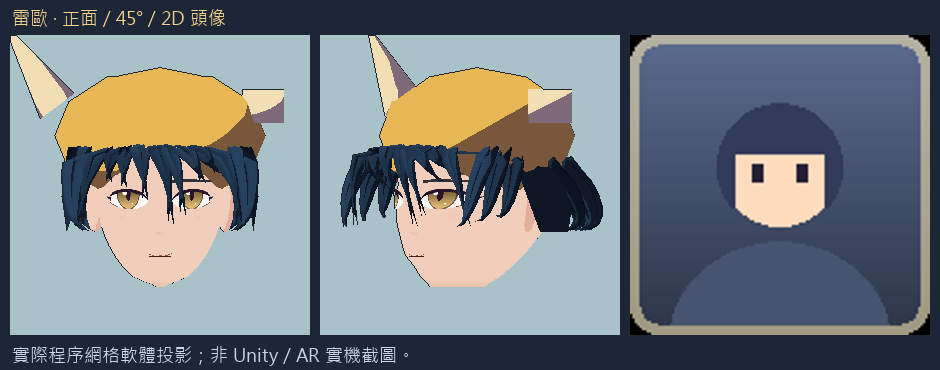
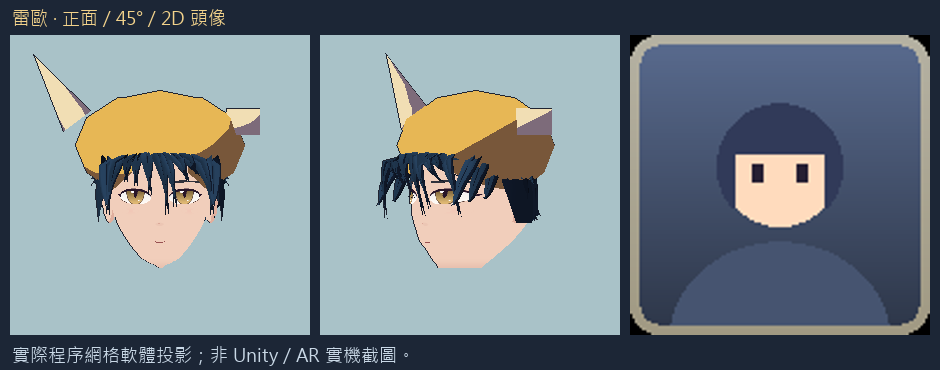
Round Erin hood and folded rim, compact hair depth and shorten Haido mouth
Preserve rear hair tube cross-sections against the cached head envelope. Closed neutral captain portraits use a shorter mouth; casting and teeth remain animated. Includes inherited Leo template regression. No gameplay, public CharacterRig API or network changes.

Changed region(s): [[0.3394, 0.0892, 0.6479, 0.773], [0.0, 0.0892, 0.3085, 0.773]]

diff --git a/spellduel-unity/Assets/SpellDuel/Runtime/StoryHeadwear.cs b/spellduel-unity/Assets/SpellDuel/Runtime/StoryHeadwear.cs
@@ -12,6 +12,41 @@ namespace SpellDuel
                 for(int i=0;i<n;i++){float a=i*Mathf.PI/4;b.V.Add(path[j]+(side*Mathf.Cos(a)+cross*Mathf.Sin(a))*radius*(1-j*.28f));b.C.Add(color);if(j<path.Length-1){int k=start+j*n+i,k1=start+j*n+(i+1)%n;b.T.AddRange(new[]{k,k1,k+n,k1,k1+n,k+n});}}
             }
         }
+        static void HoodRoof(OutfitArt.Builder b,Vector3[] front,Color color)
+        {
+            const int rows=7;int n=front.Length;
+            for(int layer=0;layer<2;layer++)
+            {
+                int start=b.V.Count;
+                for(int j=0;j<rows;j++)for(int i=0;i<n;i++)
+                {
+                    float t=j/(float)(rows-1),smooth=t*t*(3-2*t);var f=front[i];
+                    float rearY=f.y>.10f?.10f+(f.y-.10f)*.45f:f.y-.006f;
+                    var v=new Vector3(Mathf.Lerp(f.x,f.x*.98f,smooth),Mathf.Lerp(f.y,rearY,smooth)+.014f*Mathf.Sin(t*Mathf.PI)*Mathf.Clamp01((f.y+.01f)/.20f),Mathf.Lerp(.108f,-.176f,t));
+                    v.y+=layer==0?.002f:-.002f;b.V.Add(v);b.C.Add(color);
+                    if(j==rows-1||i==n-1)continue;int k=start+j*n+i;
+                    if(layer==0)b.T.AddRange(new[]{k,k+1,k+n,k+1,k+n+1,k+n});else b.T.AddRange(new[]{k,k+n,k+1,k+1,k+n,k+n+1});
+                }
+                int center=b.V.Count;b.V.Add(new Vector3(0,.025f,layer==0?-.180f:-.174f));b.C.Add(color);
+                for(int i=0;i<n-1;i++){int k=start+(rows-1)*n+i;if(layer==0)b.T.AddRange(new[]{center,k,k+1});else b.T.AddRange(new[]{center,k+1,k});}
+            }
+        }
+        static void HoodRim(OutfitArt.Builder b,Vector3[] front,Color cloth,Color lining)
+        {
+            int n=front.Length;
+            for(int layer=0;layer<2;layer++)
+            {
+                int start=b.V.Count;
+                for(int row=0;row<3;row++)for(int i=0;i<n;i++)
+                {
+                    var f=front[i];float side=f.x<0?-1:1;
+                    var v=row==0?f:row==1?new Vector3(side*Mathf.Max(0,Mathf.Abs(f.x)-.022f),f.y-.014f,.148f):new Vector3(side*Mathf.Max(0,Mathf.Abs(f.x)-.034f),f.y-.023f,.140f);
+                    v.z+=layer==0?.001f:-.001f;b.V.Add(v);b.C.Add(row==2?lining:cloth);
+                    if(row==2||i==n-1)continue;int k=start+row*n+i;
+                    if(layer==0)b.T.AddRange(new[]{k,k+n,k+1,k+1,k+n,k+n+1});else b.T.AddRange(new[]{k,k+1,k+n,k+1,k+n+1,k+n});
+                }
+            }
+        }
         // Final head-local coordinates, deliberately independent of the old fitting envelope.
         internal static void FilmBuild(OutfitArt.Builder b,string id)
         {
@@ -19,16 +54,17 @@ namespace SpellDuel
             if(id=="艾琳")
             {
                 var purple=CharacterLook.Hex("382354");var lining=CharacterLook.Hex("8959bd");
-                float[] xs={0,.055f,.105f,.137f,.160f,.172f,.160f,.115f};
-                float[] ys={.245f,.204f,.130f,.040f,-.050f,-.115f,-.135f,-.145f};
-                for(int side=-1;side<=1;side+=2)for(int i=0;i<xs.Length-1;i++)
+                // Dense Bezier aperture: rounded upper shoulders and a soft central peak.
+                const int arc=18,tail=5;var half=new Vector3[arc+tail+1];
+                for(int i=0;i<=arc;i++){float t=i/(float)arc,u=1-t;half[i]=new Vector3(0,.240f,.108f)*(u*u*u)+new Vector3(.060f,.238f,.108f)*(3*u*u*t)+new Vector3(.135f,.075f,.108f)*(3*u*t*t)+new Vector3(.172f,-.115f,.108f)*(t*t*t);}
+                for(int i=1;i<=tail;i++){float t=i/(float)tail,u=1-t;half[arc+i]=new Vector3(.172f,-.115f,.108f)*(u*u*u)+new Vector3(.180f,-.140f,.108f)*(3*u*u*t)+new Vector3(.140f,-.153f,.108f)*(3*u*t*t)+new Vector3(.115f,-.145f,.108f)*(t*t*t);}
+                var front=new Vector3[half.Length*2-1];
+                for(int i=0;i<half.Length;i++){front[half.Length-1+i]=half[i];var v=half[i];v.x=-v.x;front[half.Length-1-i]=v;}
+                HoodRoof(b,front,purple);HoodRim(b,front,purple,lining);
+                for(int i=0;i<front.Length-1;i++)
                 {
-                    var a=new Vector3(side*xs[i],ys[i],.108f);var c=new Vector3(side*xs[i+1],ys[i+1],.108f);
-                    var ia=new Vector3(side*Mathf.Max(0,xs[i]-.018f),ys[i]-.019f,.128f);var ic=new Vector3(side*Mathf.Max(0,xs[i+1]-.018f),ys[i+1]-.019f,.128f);
-                    var ba=new Vector3(a.x*.84f,a.y>.10f?.10f+(a.y-.10f)*.45f:a.y-.008f,-.205f);var bc=new Vector3(c.x*.84f,c.y>.10f?.10f+(c.y-.10f)*.45f:c.y-.008f,-.205f);
-                    b.Panel(a,c,ba,bc,purple,.003f,2,1);b.Panel(a,c,ia,ic,purple,0,1,1);
-                    b.Seam(ia,ic,.006f,lining);b.Seam(a+Vector3.forward*.005f,c+Vector3.forward*.005f,.003f,gold);
-                    b.Panel(ba,bc,new Vector3(0,.035f,-.217f),new Vector3(0,.035f,-.217f),purple,0,1,1);
+                    var a=front[i];var c=front[i+1];
+                    b.Seam(a+Vector3.forward*.005f,c+Vector3.forward*.005f,.003f,gold);
                 }
                 return;
             }

diff --git a/spellduel-unity/Assets/SpellDuel/Runtime/StoryHair.cs b/spellduel-unity/Assets/SpellDuel/Runtime/StoryHair.cs
@@ -42,6 +42,22 @@ namespace SpellDuel
         }
         static void FilmLock(OutfitArt.Builder m,Vector3 a,Vector3 b,Vector3 c,Vector3 d,float width,float depth,float tone=1)
         {Lock(m,a,b,c,d,width,depth,tone,.65f);}
+        static void FitRearLocks(List<Vector3> vertices,Portraits.Persona p)
+        {
+            // Preserve every six-vertex tube ring: translate the ring rather than flattening individual vertices.
+            for(int i=0;i<121;i++){var v=vertices[i];if(v.z<0){v.z=Mathf.Min(v.z,AnimeFace.HairBackSurface(v.x,v.y,p)-.005f);vertices[i]=v;}}
+            for(int start=121;start+48<vertices.Count;start+=49)
+            {
+                for(int ring=0;ring<8;ring++)
+                {
+                    int at=start+ring*6;float z=0,push=0;for(int k=0;k<6;k++)z+=vertices[at+k].z;
+                    if(z>=-.06f)continue;
+                    for(int k=0;k<6;k++){var v=vertices[at+k];push=Mathf.Min(push,AnimeFace.HairBackSurface(v.x,v.y,p)-.006f-v.z);}
+                    for(int k=0;k<6;k++){var v=vertices[at+k];v.z+=push;vertices[at+k]=v;}
+                }
+                var tip=vertices[start+48];if(tip.z<0){tip.z=Mathf.Min(tip.z,AnimeFace.HairBackSurface(tip.x,tip.y,p)-.006f);vertices[start+48]=tip;}
+            }
+        }
         static readonly Dictionary<string,Mesh> filmHair=new Dictionary<string,Mesh>();
         // Visible film silhouettes are fitted AFTER the legacy sizing pass: body/head scale stays unchanged.
         internal static Mesh FilmMesh(string id,Portraits.Persona p)
@@ -94,7 +110,13 @@ namespace SpellDuel
                 FilmLock(m,new Vector3(side*.16f,.14f,-.065f),new Vector3(side*.225f,.09f,-.10f),new Vector3(side*.215f,-.09f,-.11f),new Vector3(side*(.165f+i*.012f),-.15f+i*.012f,-.08f),.021f,.015f,i==1?1:.85f);
             if(elder)for(int i=0;i<6;i++){float a=i*Mathf.PI/3;FilmLock(m,new Vector3(0,.15f,-.06f),new Vector3(Mathf.Cos(a)*.045f,.30f,-.04f),new Vector3(Mathf.Cos(a)*.045f,.30f,.015f),new Vector3(0,.18f,.025f),.020f,.016f);}
             if(id=="艾琳"||male)for(int i=0;i<m.V.Count;i++)
-            {var v=m.V[i];v.x*=id=="艾琳"?.80f:.82f;if(id=="艾琳")v.x*=1-.18f*Mathf.SmoothStep(0,1,Mathf.InverseLerp(.08f,.16f,v.y));if(v.z<0)v.z*=id=="艾琳"?.82f:.74f;m.V[i]=v;}
+            {var v=m.V[i];v.x*=id=="艾琳"?.80f:.82f;if(id=="艾琳")v.x*=1-.18f*Mathf.SmoothStep(0,1,Mathf.InverseLerp(.08f,.16f,v.y));if(v.z<0)v.z*=id=="艾琳"?.82f:.74f;
+                if(id=="艾琳")
+                {
+                    if(v.z>.12f)v.z=.12f+(v.z-.12f)*.55f;
+                    if(v.z<0)v.z=-.009f+(v.z+.009f)*.90f;
+                }m.V[i]=v;}
+            if(id=="艾琳")FitRearLocks(m.V,p);
             cached=m.Finish("Film silhouette "+id);filmHair[id]=cached;return cached;
         }
         internal static Mesh Build(string id,Portraits.Persona p)

diff --git a/spellduel-unity/Assets/SpellDuel/Runtime/Portraits.cs b/spellduel-unity/Assets/SpellDuel/Runtime/Portraits.cs
@@ -117,7 +117,7 @@ namespace SpellDuel
                 FaceWidth=.206f*AnimeFace.FaceWidthScale*AnimeFace.IdentityWidth(p)*p.Length*Lerp(.984f,1.012f,(p.Width-.95f)/.10f);
                 EyeY=Chin+height*.480f;EyeWidth=(FaceWidth/(AnimeFace.FaceWidthScale*AnimeFace.IdentityWidth(p)))*.285f;EyeX=FaceWidth*.26f;
                 EyeHeight=EyeWidth*(p.Elder?.53f:p.Masculine?.63f:.82f+(p.Eye-1)*.15f);
-                NoseY=Chin+height*.30f;MouthY=Chin+height*.17f;MouthWidth=EyeWidth*.60f;
+                NoseY=Chin+height*.30f;MouthY=Chin+height*.17f;MouthWidth=EyeWidth*(p.Captain?.40f:.60f);
                 BrowY=EyeY+Math.Max(height*.07f,EyeHeight*.60f+height*.02f);EarTop=BrowY;EarBottom=NoseY;
 
             }
@@ -125,7 +125,7 @@ namespace SpellDuel
         internal static Persona PersonaFor(string key)
         {
             var p=BasePersonaFor(key);HumanPersonality.Apply(ref p,Key(key));p.Story=StoryCostume.Has(Key(key))||Key(key)=="澪";p.SoftNose=Key(key)=="艾琳"||Key(key)=="凪"||Key(key)=="小葉"||Key(key)=="澪";if(p.Story)p.Open*=.15f;
-            string id=Key(key);p.Captain=id=="海斗";p.Elder=id=="老焰"||id=="阿潮"||id=="公會長"||id=="塔守";
+            string id=Key(key);p.Captain=id=="海斗";if(p.Captain)p.Open=0;p.Elder=id=="老焰"||id=="阿潮"||id=="公會長"||id=="塔守";
             p.Masculine=p.Elder||id=="海斗"||id=="小鐵"||id=="鐵匠"||id=="教官"||id=="swordsman"||id=="paladin"||id=="inquisitor";
             return p;
         }

diff --git a/spellduel-unity/Assets/SpellDuel/Runtime/AnimeFace.cs b/spellduel-unity/Assets/SpellDuel/Runtime/AnimeFace.cs
@@ -40,6 +40,13 @@ namespace SpellDuel
 
             front=Profile(fronts,k,t);back=Mathf.Lerp(Profile(backs,k,t),-.072f,ChinBlend(y,p));
         }
+        internal static float HairBackSurface(float x,float y,Portraits.Persona p)
+        {
+            if(y<=-.157f*p.Length||y>=.157f*p.Length)return 1;
+            Section(y,p,out var width,out _,out var back);if(Mathf.Abs(x)>=width)return 1;
+            float offset=.075f*ChinBlend(y/p.Length,p);
+            return offset-(back+offset)*Mathf.Sqrt(Mathf.Max(0,1-x*x/(width*width)));
+        }
         static float SculptSurface(float x,float y,Portraits.Persona p)
         {
             Section(y,p,out var width,out var front,out _);

diff --git a/spellduel-unity/FACE_OVAL_BRIEF.md b/spellduel-unity/FACE_OVAL_BRIEF.md
@@ -147,3 +147,10 @@
 - 新帽子使用 `VisibleMeshFor` 的建立時快取；舊帽／髮殼只保留為原有身體、頭部與裝備定位參考，沒有重新縮放整個人物。新增的 `Persona.Captain` 僅為海斗的內部美術標記，無公開 API、戰鬥或存檔欄位變動。
 - 2D 頭像改用實際髮束深度遮擋帽子後片，避免舊固定高度遮罩把髮頂切平；深度圖只在頭像建立時產生，完成圖像照常快取。3D、城鎮居民與頭像讀同一可見帽型與髮型。
 - 本次針對兩人重跑 39 狀態各一次（共 78 狀態），並回歸 16 職業裝備定位／快取檢查；其餘角色沿用前輪通過的檢查。452 個身體網格與原基底相同。iOS／Android 本機符號條件編譯零錯誤（Unity API 替身）；依指示未推送，未宣稱這批已完成完整 Unity 手機建置。
+
+### 艾琳帽緣圓弧／側面厚度、海斗嘴線追加修正（2026-10-24）
+
+- 艾琳兜帽上方兩側改為密集貝茲曲線截面，後上帽緣使用跨深度的連續曲面與平滑法線，保留柔和中央頂點，避免前版直線屋頂與後端尖角。內翻改成「外緣 → 前翻折點 → 內緣」三列連續曲面，內收量由 `.018` 增至 `.034`，向前翻折至 `z=.148`；不再逐片加厚而形成橫條接縫。背部外殼亦包住後髮，避免銀髮穿出布面。
+- 艾琳頭髮前、後各自向頭殼收攏，並保留後腦包絡的最小間距，沒有把頭模或五官壓扁。相同投影下前後深度由 `.34864` 降至 `.31278`，約縮短 10.3%；前側最外點 `.16012 → .14207`，後側 `-.18852 → -.17071`。詳見 [正面／45°／正側面／去帽髮型比較](Docs/face_check/hood_profile.png) 及 [量測](Docs/face_check/hood_profile.json)。
+- 海斗嘴寬從眼寬 `.60` 倍改為 `.40` 倍，約縮短三分之一；3D、居民與頭像同步。原待機頭像因極小的非零 Open 值畫成扁長橢圓，現在改為閉嘴短線；施法張嘴及牙齒仍沿原動畫更新。[嘴巴前後比較](Docs/face_check/haido_mouth.png)。
+- 艾琳、海斗及沿用海斗模板的雷歐各重跑 39 狀態（共 117），貼面間距及動畫網格／材質快取檢查通過；16 職業裝備定位回歸通過。其餘 38 位沿用前輪結果，452 個身體網格對照基底不變。本機 UNITY_IOS／UNITY_ANDROID 符號編譯零錯誤（Unity API 替身），非完整 Unity 手機建置。未推送。

diff --git a/spellduel-unity/Docs/face_check/README.md b/spellduel-unity/Docs/face_check/README.md
@@ -49,7 +49,7 @@
 | 懸賞官 | [查看](懸賞官.png) | 0.7463 | #f4d2bf | 44 |
 | 播報員 | [查看](播報員.png) | 0.7458 | #f4d2bf | 52 |
 | 塔守 | [查看](塔守.png) | 0.7570 | #e9d4c8 | 60 |
-| 雷歐 | [查看](雷歐.png) | 0.7632 | #f1cebb | 74 |
+| 雷歐 | [查看](雷歐.png) | 0.7326 | #f1cebb | 82 |
 | 小沙 | [查看](小沙.png) | 0.7538 | #f4d2bf | 52 |
 | 鐵娘 | [查看](鐵娘.png) | 0.7393 | #f7d8ca | 74 |
 | 老駝 | [查看](老駝.png) | 0.7603 | #edc6aa | 68 |
@@ -73,3 +73,11 @@
 [影片、前版與本次並排](erin_haido_fit.png)；[投影寬度比例](erin_haido_fit.json)。艾琳髮／臉從 1.96 收至 1.57、帽／臉從 2.59 收至 2.08，兜帽改為尖頂與陡斜前緣。海斗髮／臉從 1.62 收至 1.49、帽／臉從 1.60 收至 1.50，改低帽冠、短帽簷、短外翹髮束，臉寬另收 4% 並收束下顎。其餘角色不變。
 
 2D 頭像已依實際髮束深度遮擋帽後片，不再沿固定高度切掉髮頂。這兩人的投影畫框略放大以容納完整尖頂，對照圖的前後版本使用同一相機。尚未推送。
+
+## 最新：圓弧帽緣、縮短側面頭髮與海斗短嘴線
+
+- [艾琳前後比較：正面、45°、正側面與去帽髮型](hood_profile.png)
+- [前後厚度量測](hood_profile.json)：髮型前後深度縮短約 10.3%，頭部本體不變。
+- [海斗嘴巴前後比較](haido_mouth.png)：嘴寬縮短約三分之一，待機頭像改成閉嘴短線，施法張嘴保留。
+
+帽子上方兩側、後上緣與內翻邊使用連續曲面，修掉尖角與逐片接縫。兩位與沿用海斗模板的雷歐重跑 117 狀態，其他 38 位檢查沿用前輪，未推送。
